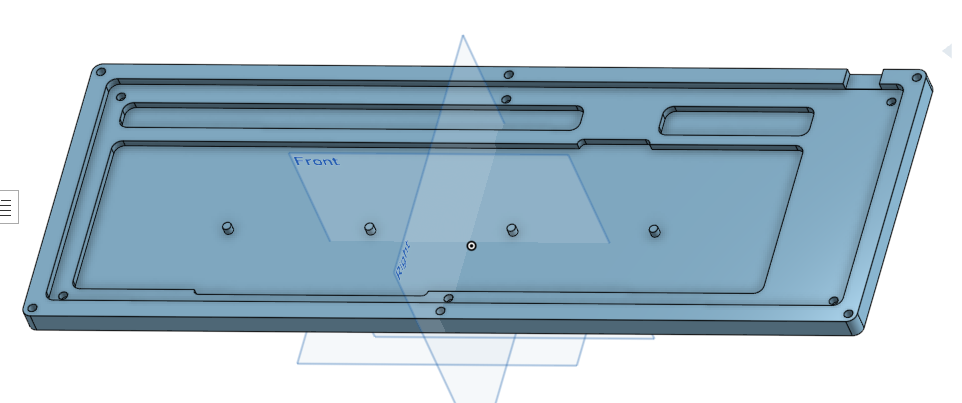
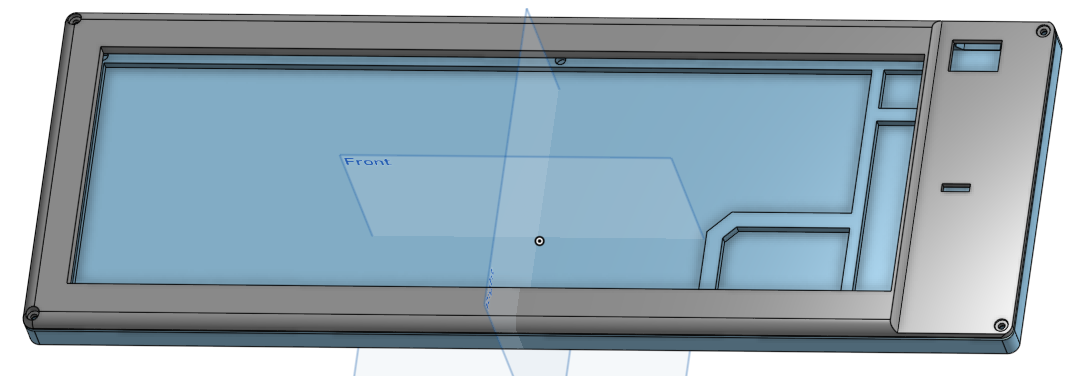
updated images

diff --git a/README.md b/README.md
@@ -6,18 +6,18 @@ I made this keyboard after I designed my [macropad](https://github.com/Radioacti
 
 # Images
 
-| Schematic |
-|-----------|
-| ![Schematic](assets/schematic.png) |
+![Schematic](assets/schematic.png) |
 
-| PCB | 3D Preview | Case |
-|-----|------------|------|
-| ![PCB](assets/pcb.png) | ![3D-Front](assets/3dfront.png) | ![Case1](assets/case1.png) |
-| ![Case](assets/case.png) | ![3D-Back](assets/3dback.png) | ![Case2](assets/case2.png) |
+| PCB | 3D View |
+|-----|------------|
+| ![PCB](assets/pcb.png) | ![3D-Front](assets/3dfront.png) |
+| ![Case](assets/case.png) | ![3D-Back](assets/3dback.png) |
 
-# Case
+# Render
 
- ![](assets/case.png)
+![Render1](assets/render1.png)
+
+![Render2](assets/render2.png)
 
 # BOM
 | Qty | Item                               | Notes                                     | Cost (USD) | URL                                                                                                         |
